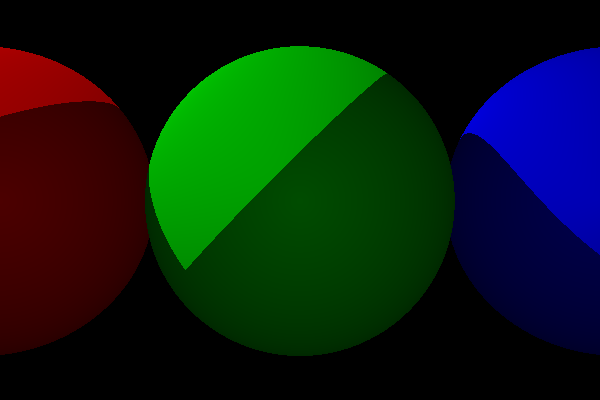
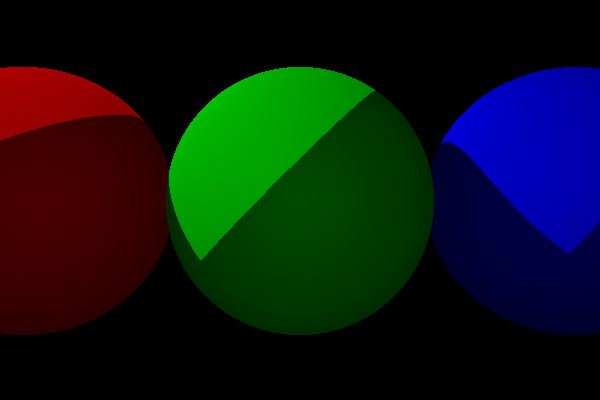
Fix field of view usage

diff --git a/src/render.rs b/src/render.rs
@@ -1,3 +1,5 @@
+use std::f64;
+
 use crate::get_color_for_ray;
 use crate::math;
 use crate::Image;
@@ -9,26 +11,30 @@ use crate::World;
 // TODO: Is field_of_view the correct term?
 pub fn render(
     world: &World,
-    width: usize,
-    height: usize,
+    image_width: usize,
+    image_height: usize,
     field_of_view: f64,
 ) -> Image
 {
+    assert!(field_of_view.is_sign_positive());
+    assert!(field_of_view < f64::consts::PI);
+
     let tracer = Tracer::new(&world);
-    let mut image = Image::new(width, height);
-    // The centre of the image plane that we project through
+    let mut image = Image::new(image_width, image_height);
+    // The centre and width of the image plane that we project through
     let image_plane_centre = world.camera.position + world.camera.direction;
+    let image_plane_width = 2.0 * (field_of_view / 2.0).tan();
     // The size (in world units) of a pixel
-    let pixel_size = field_of_view / width as f64;
+    let pixel_size = image_plane_width / image_width as f64;
     // The basis vectors for the image plane
     let (image_plane_x_unit, image_plane_y_unit) =
         math::get_camera_unit_vectors(&world.camera.direction);
     // For every pixel...
-    for image_x in 0..width {
-        for image_y in 0..height {
+    for image_x in 0..image_width {
+        for image_y in 0..image_height {
             // Need to offset to make the centre of the image zero
-            let offset_x_pixels = image_x as f64 - (width / 2) as f64;
-            let offset_y_pixels = image_y as f64 - (height / 2) as f64;
+            let offset_x_pixels = image_x as f64 - (image_width / 2) as f64;
+            let offset_y_pixels = image_y as f64 - (image_height / 2) as f64;
             // Calculate the ray from the camera centre to the correct point
             // on the image plane
             let image_point = image_plane_centre

diff --git a/src/example_scenes.rs b/src/example_scenes.rs
@@ -3,6 +3,7 @@ extern crate criterion;
 extern crate image;
 extern crate raytracer;
 
+use std::f64;
 use std::fs;
 use std::path::Path;
 
@@ -26,15 +27,16 @@ const WIDTH: usize = 600;
 const HEIGHT: usize = 400;
 const SMALL_WIDTH: usize = 60;
 const SMALL_HEIGHT: usize = 40;
+const FOV: f64 = f64::consts::PI / 3.0;
 
 fn run(bench: &mut Criterion) {
     // Write the images to the example-output directory
     println!("Creating images in ./examples-output");
-    let simple_image = raytracer::render(&simple(), WIDTH, HEIGHT, 1.0);
+    let simple_image = raytracer::render(&simple(), WIDTH, HEIGHT, FOV);
     save_image(simple_image, Path::new("examples-output/simple.png"));
-    let diffuse_image = raytracer::render(&diffuse(), WIDTH, HEIGHT, 1.0);
+    let diffuse_image = raytracer::render(&diffuse(), WIDTH, HEIGHT, FOV);
     save_image(diffuse_image, Path::new("examples-output/diffuse.png"));
-    let reflective_image = raytracer::render(&reflective(), WIDTH, HEIGHT, 1.0);
+    let reflective_image = raytracer::render(&reflective(), WIDTH, HEIGHT, FOV);
     save_image(
         reflective_image,
         Path::new("examples-output/reflective.png"),
@@ -43,7 +45,7 @@ fn run(bench: &mut Criterion) {
 
     // Set up benchmarks
     bench.bench_function("simple", |b| {
-        b.iter(|| raytracer::render(&simple(), SMALL_WIDTH, SMALL_HEIGHT, 1.0))
+        b.iter(|| raytracer::render(&simple(), SMALL_WIDTH, SMALL_HEIGHT, FOV))
     });
 }
 

diff --git a/src/lib.rs b/src/lib.rs
@@ -9,6 +9,7 @@
 //! For example:
 //!
 //! ```rust
+//! # use std::f64;
 //! # use raytracer::render;
 //! # use raytracer::shape::{Shape, Sphere};
 //! # use raytracer::texture::{Diffuse, Solid, Texture};
@@ -22,7 +23,7 @@
 //! let world = World::new(camera, shapes, vec![], Color::black());
 //!
 //! // Set the image width, image height, and field of view
-//! let image = render(&world, 800, 600, 1.0);
+//! let image = render(&world, 800, 600, f64::consts::PI / 3.0);
 //! ```
 //!
 //! ## Algorithm
